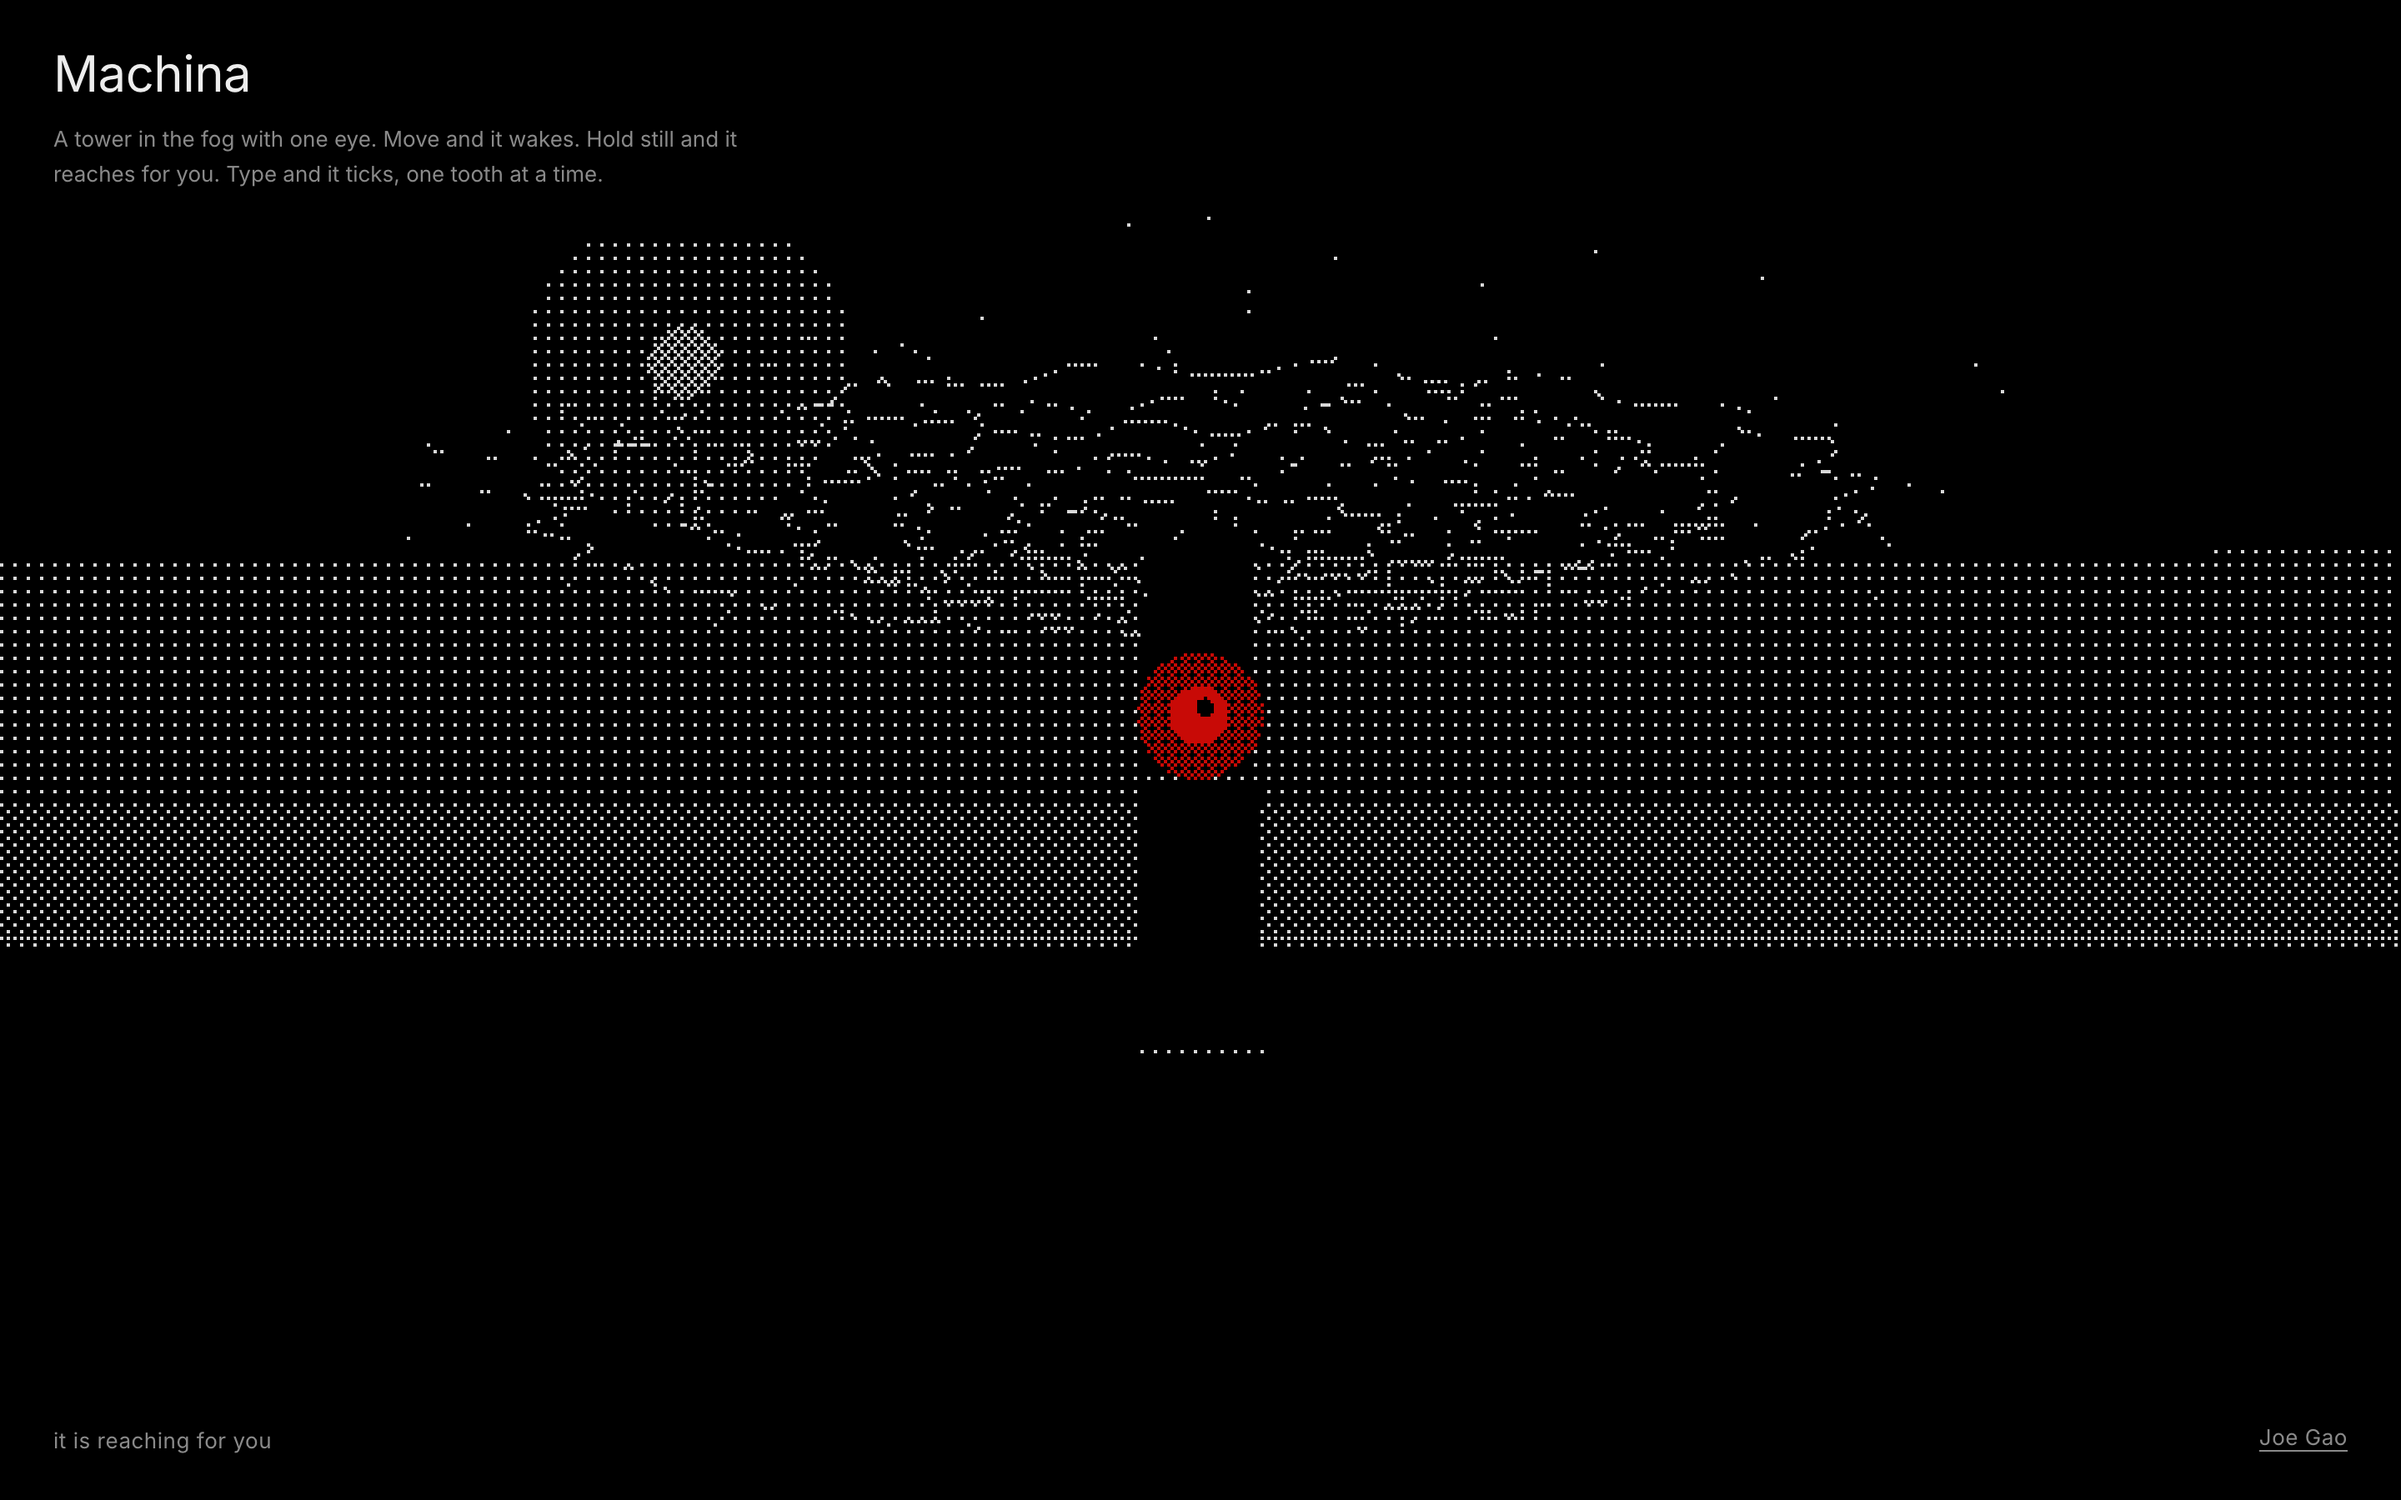
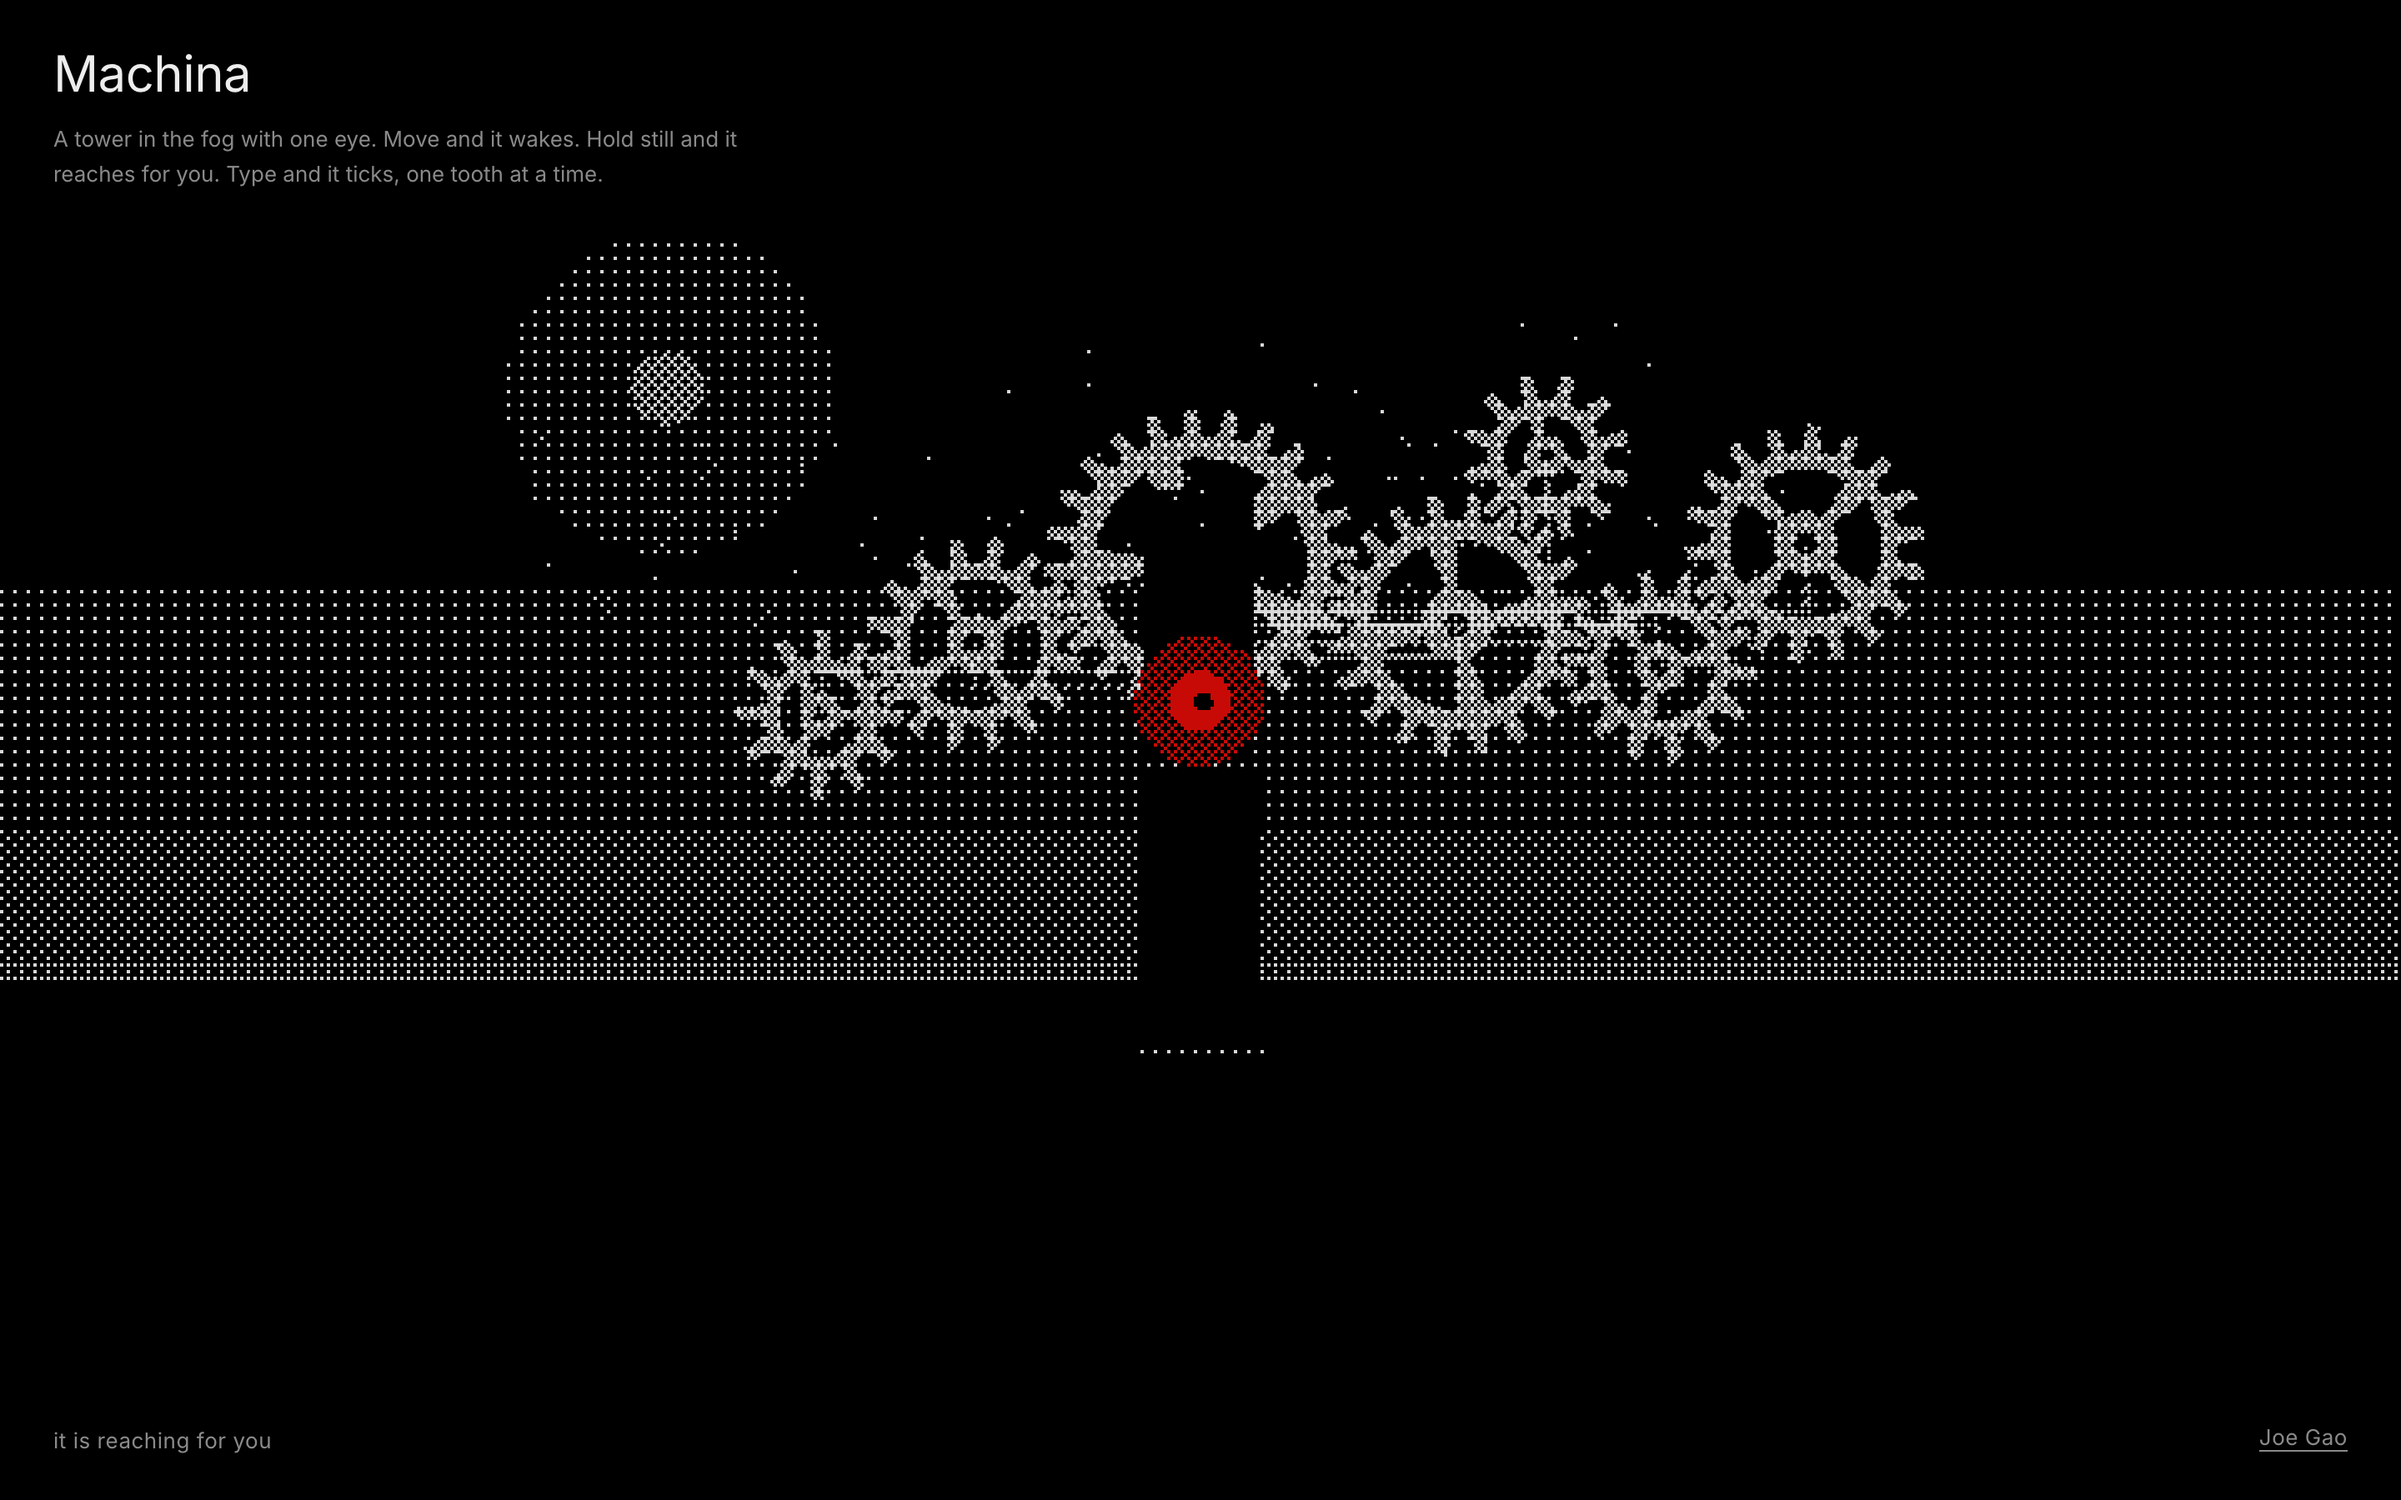
v1.2: real meshing gears instead of contour rings
Seven filled gears (12-24 square teeth, hub, 3-5 spokes) mesh tooth to tooth;
a key turns each one tooth and lights a right-angle trace hub to tower.
Reaching shrinks the whole cloud so the teeth stay meshed. Canvas gets role=img.

diff --git a/machina.html b/machina.html
@@ -15,7 +15,7 @@
 <meta property="og:image" content="https://joezgao.github.io/machina/og.png">
 <meta property="og:image:width" content="1200">
 <meta property="og:image:height" content="630">
-<meta property="og:image:alt" content="A black tower in stippled fog under a white moon, a ring of gears above it and one red eye on its face.">
+<meta property="og:image:alt" content="A black tower in stippled fog under a white moon, a cloud of meshing gears above it and one red eye on its face.">
 <meta name="twitter:card" content="summary_large_image">
 <link rel="preconnect" href="https://fonts.googleapis.com">
 <link rel="preconnect" href="https://fonts.gstatic.com" crossorigin>
@@ -67,7 +67,7 @@ try {
 }
 renderer.setPixelRatio(Math.min(devicePixelRatio, 2))
 renderer.setClearColor(0x000000, 1)
-renderer.domElement.setAttribute('aria-label', 'A black tower in fog under the moon, crowned by a slowly turning ring of gears, with one red eye that opens when you move.')
+renderer.domElement.setAttribute('aria-label', 'A black tower in fog under the moon, crowned by a cloud of meshing gears, with one red eye that opens when you move.')
 renderer.domElement.setAttribute('role', 'img')
 document.body.prepend(renderer.domElement)
 
@@ -148,60 +148,90 @@ seam.position.set(0, (EYE_Y - 0.45) / 2, 0.57)
 scene.add(seam)
 let seamLit = 0
 
-// the mechanical cloud: rings of gear teeth, circuit traces between them, and a haze of points
+// the mechanical cloud: a train of filled gears that really mesh, circuit traces hub to hub, and a haze of points
 const cloud = new THREE.Group()
 scene.add(cloud)
-const RINGS = [
-  { r: 3.0, teeth: 12, y: 0.0, tilt: 0.0 },
-  { r: 4.6, teeth: 16, y: 0.6, tilt: 0.05 },
-  { r: 6.3, teeth: 20, y: -0.4, tilt: -0.04 },
-  { r: 8.1, teeth: 24, y: 0.9, tilt: 0.07 },
-  { r: 10.2, teeth: 24, y: -0.2, tilt: -0.06 },
+const MOD = 0.22 // gear module: pitch radius = MOD * teeth / 2
+// each gear hangs off a parent at an angle and meshes with it
+const GEARS = [
+  { teeth: 24, x: 0, y: 0.4 },
+  { teeth: 16, parent: 0, at: 200 },
+  { teeth: 12, parent: 1, at: 205 },
+  { teeth: 20, parent: 0, at: -14 },
+  { teeth: 12, parent: 3, at: 62 },
+  { teeth: 14, parent: 3, at: -12 },
+  { teeth: 18, parent: 5, at: 40 },
 ]
-const lineMat = new THREE.LineBasicMaterial({ color: 0xffffff, transparent: true, opacity: 0.95, fog: false })
-const rings = RINGS.map((d, k) => {
-  const pts = []
-  const n = d.teeth * 4
-  for (let i = 0; i <= n; i++) {
-    const a = (i / n) * Math.PI * 2
-    const tooth = Math.floor(i / 2) % 2 ? 0.6 : 0
-    pts.push(new THREE.Vector3(Math.cos(a) * (d.r + tooth), 0, Math.sin(a) * (d.r + tooth)))
+function gearShape(t) {
+  const r = MOD * t / 2, tip = r + MOD, root = r - 1.25 * MOD
+  const s = new THREE.Shape()
+  for (let i = 0; i < t; i++) {
+    const a0 = (i / t) * Math.PI * 2, w = (Math.PI * 2) / t
+    const p = [[root, -0.5], [root, -0.27], [tip, -0.15], [tip, 0.15], [root, 0.27]]
+    p.forEach(([rr, f], j) => {
+      const a = a0 + f * w
+      i === 0 && j === 0 ? s.moveTo(Math.cos(a) * rr, Math.sin(a) * rr) : s.lineTo(Math.cos(a) * rr, Math.sin(a) * rr)
+    })
   }
+  s.closePath()
+  // windows between spokes, and the axle hole
+  const rim = root - Math.max(0.28, r * 0.16), hub = Math.max(0.32, r * 0.3)
+  const n = t >= 24 ? 5 : t >= 16 ? 4 : 3
+  const hw = (r * 0.09) / ((rim + hub) / 2)
+  for (let k = 0; k < n; k++) {
+    const a = (k / n) * Math.PI * 2 + hw, b = ((k + 1) / n) * Math.PI * 2 - hw
+    const h = new THREE.Path()
+    h.absarc(0, 0, rim, a, b, false)
+    h.absarc(0, 0, hub, b, a, true)
+    h.closePath()
+    s.holes.push(h)
+  }
+  const axle = new THREE.Path(); axle.absarc(0, 0, hub * 0.35, 0, Math.PI * 2, true); s.holes.push(axle)
+  return s
+}
+const rings = []
+GEARS.forEach((d) => {
+  const r = MOD * d.teeth / 2
+  let x = d.x, y = d.y, dir = 1, angle = Math.random() * 6
+  if (d.parent !== undefined) {
+    const P = rings[d.parent].userData, th = (d.at * Math.PI) / 180, dist = P.r + r
+    x = P.x + Math.cos(th) * dist; y = P.y + Math.sin(th) * dist; dir = -P.dir
+    // phase so a tooth of the parent sits in a gap of this gear on the line between their centres
+    const pA = ((th - P.angle) * P.teeth) / (Math.PI * 2)
+    angle = th + Math.PI - (Math.PI * 2 * (0.5 - pA)) / d.teeth
+  }
+  const shade = d.far ? 0x3a3a3a : 0xbdbdbd
+  const mesh = new THREE.Mesh(new THREE.ShapeGeometry(gearShape(d.teeth), 6), new THREE.MeshBasicMaterial({ color: shade, fog: false, side: THREE.DoubleSide }))
   const g = new THREE.Group()
-  g.add(new THREE.Line(new THREE.BufferGeometry().setFromPoints(pts), lineMat))
-  // spokes every few teeth: hand-drawn feeling, not a wheel
-  const spokes = []
-  for (let i = 0; i < d.teeth; i += 3) {
-    const a = (i / d.teeth) * Math.PI * 2
-    spokes.push(new THREE.Vector3(Math.cos(a) * (d.r - 0.5), 0, Math.sin(a) * (d.r - 0.5)), new THREE.Vector3(Math.cos(a) * d.r, 0, Math.sin(a) * d.r))
-  }
-  g.add(new THREE.LineSegments(new THREE.BufferGeometry().setFromPoints(spokes), lineMat))
-  g.userData = { ...d, dir: k % 2 ? -1 : 1, step: (Math.PI * 2) / d.teeth, angle: Math.random() * 6, target: 0, drift: (0.02 + 0.01 * k) * (k % 2 ? -1 : 1) }
-  g.userData.target = g.userData.angle
-  g.rotation.set(d.tilt, g.userData.angle, d.tilt * 0.6)
+  g.add(mesh)
+  g.position.set(x, y, d.z || 0)
+  g.userData = { r, x, y, teeth: d.teeth, dir, mesh, step: (Math.PI * 2) / d.teeth, angle, target: angle, drift: 0.05 * dir * (24 / d.teeth) * (d.far ? 0.4 : 1) }
+  mesh.rotation.z = angle
   cloud.add(g)
-  return g
+  rings.push(g)
 })
 
-// circuit traces: right-angle paths from the tower out through the rings; each lights in turn when you type
+// circuit traces: right-angle runs from the tower's crown up to each gear hub; one lights each time you type
 const traces = []
 const rand = mulberry(7)
-for (let t = 0; t < 14; t++) {
-  const pts = []
-  let a = (t / 14) * Math.PI * 2 + rand() * 0.2
-  let r = 1.0, y = 0
-  pts.push(new THREE.Vector3(Math.cos(a) * r, y, Math.sin(a) * r))
-  while (r < 10.5) {
-    if (rand() < 0.55) r += 0.8 + rand() * 1.6
-    else a += (rand() < 0.5 ? -1 : 1) * (0.08 + rand() * 0.15)
-    y += (rand() - 0.5) * 0.3
-    pts.push(new THREE.Vector3(Math.cos(a) * r, y, Math.sin(a) * r))
-  }
-  const mat = new THREE.LineBasicMaterial({ color: 0xffffff, transparent: true, opacity: 0.22, fog: false })
-  const line = new THREE.Line(new THREE.BufferGeometry().setFromPoints(pts), mat)
-  line.userData.lit = 0
-  cloud.add(line); traces.push(line)
+const TW = 0.07
+function seg(a, b, mat) {
+  const len = Math.hypot(b.x - a.x, b.y - a.y)
+  const m = new THREE.Mesh(new THREE.PlaneGeometry(b.x === a.x ? TW : len + TW, b.x === a.x ? len + TW : TW), mat)
+  m.position.set((a.x + b.x) / 2, (a.y + b.y) / 2, 0.03)
+  return m
 }
+rings.filter((g) => g.position.z === 0).forEach((g, i) => {
+  const u = g.userData
+  const mat = new THREE.MeshBasicMaterial({ color: 0xffffff, transparent: true, opacity: 0.2, fog: false, depthWrite: false })
+  const tr = new THREE.Group()
+  const sx = (i - 3) * 0.16, bendY = -2.2 + i * 0.28
+  const pts = [{ x: sx, y: -2.6 }, { x: sx, y: bendY }, { x: u.x, y: bendY }, { x: u.x, y: u.y }]
+  for (let k = 0; k < 3; k++) tr.add(seg(pts[k], pts[k + 1], mat))
+  tr.material = mat
+  tr.userData.lit = 0
+  cloud.add(tr); traces.push(tr)
+})
 
 // haze
 const HN = 1400
@@ -340,14 +370,14 @@ function frame(now) {
   cloud.position.y += (cloudY - cloud.position.y) * Math.min(1, dt * 0.8)
   const squeeze = 1 - S.reach * 0.45
   cloud.scale.setScalar(cloud.scale.x + (squeeze - cloud.scale.x) * Math.min(1, dt * 0.8))
-  rings.forEach((g, k) => {
+  rings.forEach((g) => {
     const u = g.userData
     u.target += u.drift * dt * speed * (1 - S.reach * 0.9) * (1 - S.open * 0.85)
     u.angle += (u.target - u.angle) * Math.min(1, dt * 14)
-    const flatten = 1 - S.reach
-    const lean = S.open * flatten * 0.22
-    g.rotation.set(u.tilt * flatten - pointer.y * lean, u.angle, u.tilt * 0.6 * flatten - pointer.x * lean)
-    g.position.y = u.y * flatten
+    u.mesh.rotation.z = u.angle
+    // watched, the train turns its faces toward you (reaching shrinks the whole cloud, so the teeth stay meshed)
+    const lean = S.open * (1 - S.reach) * 0.3
+    g.rotation.set(-pointer.y * lean, pointer.x * lean, 0)
   })
   for (const tr of traces) {
     tr.userData.lit = Math.max(0, tr.userData.lit - dt * 0.6)
